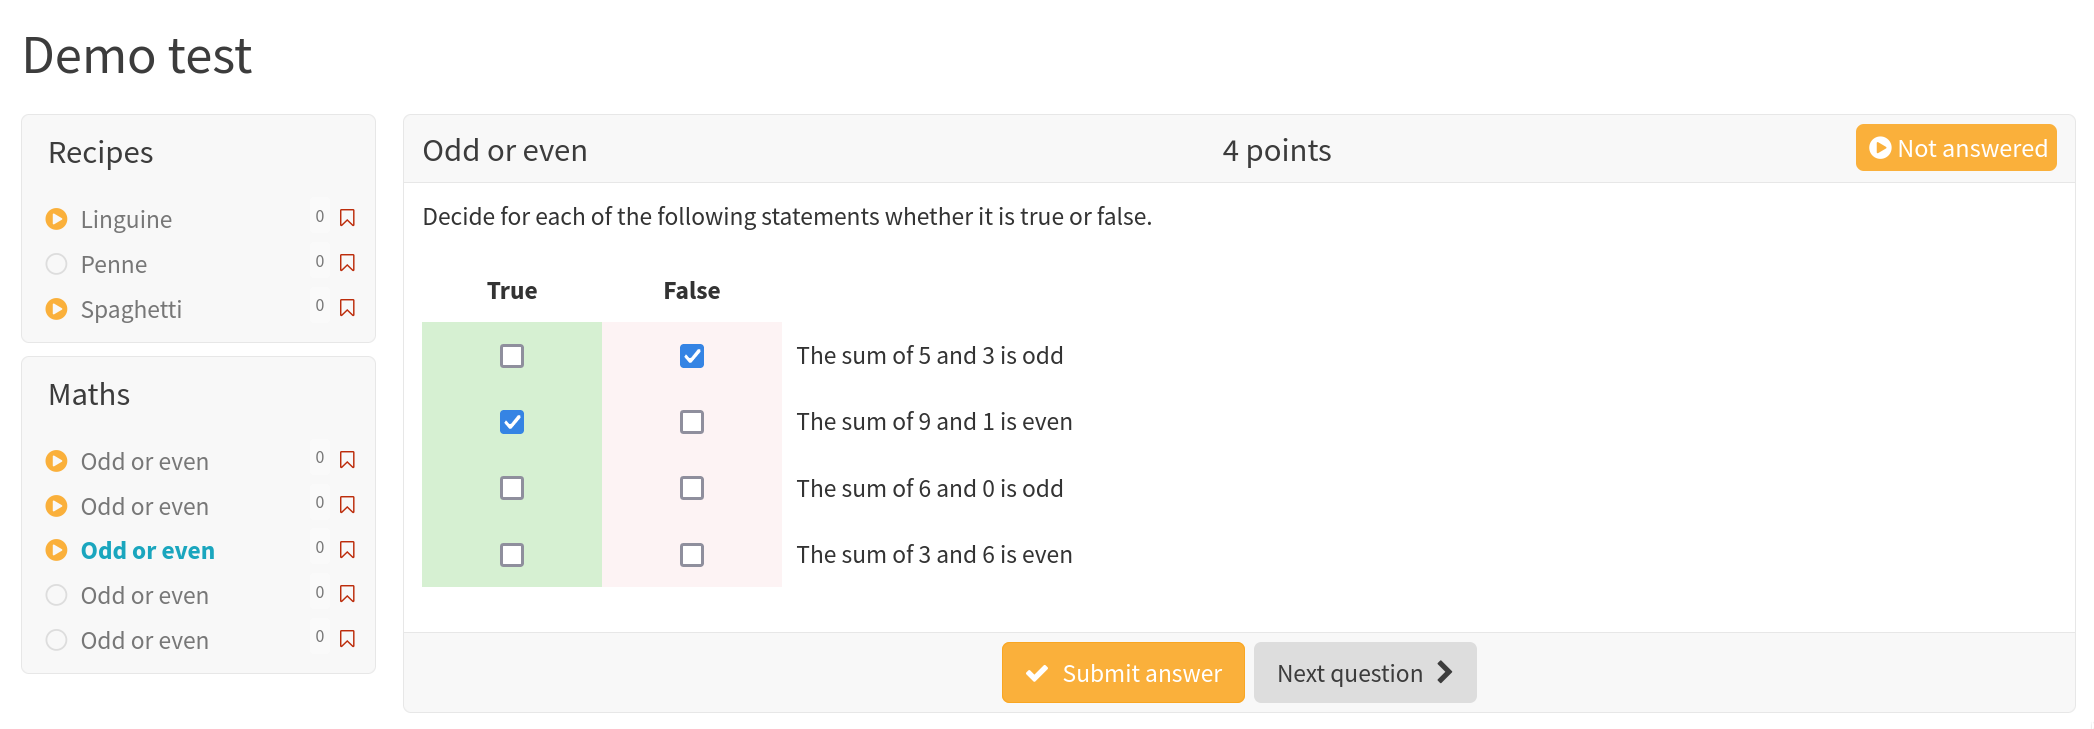
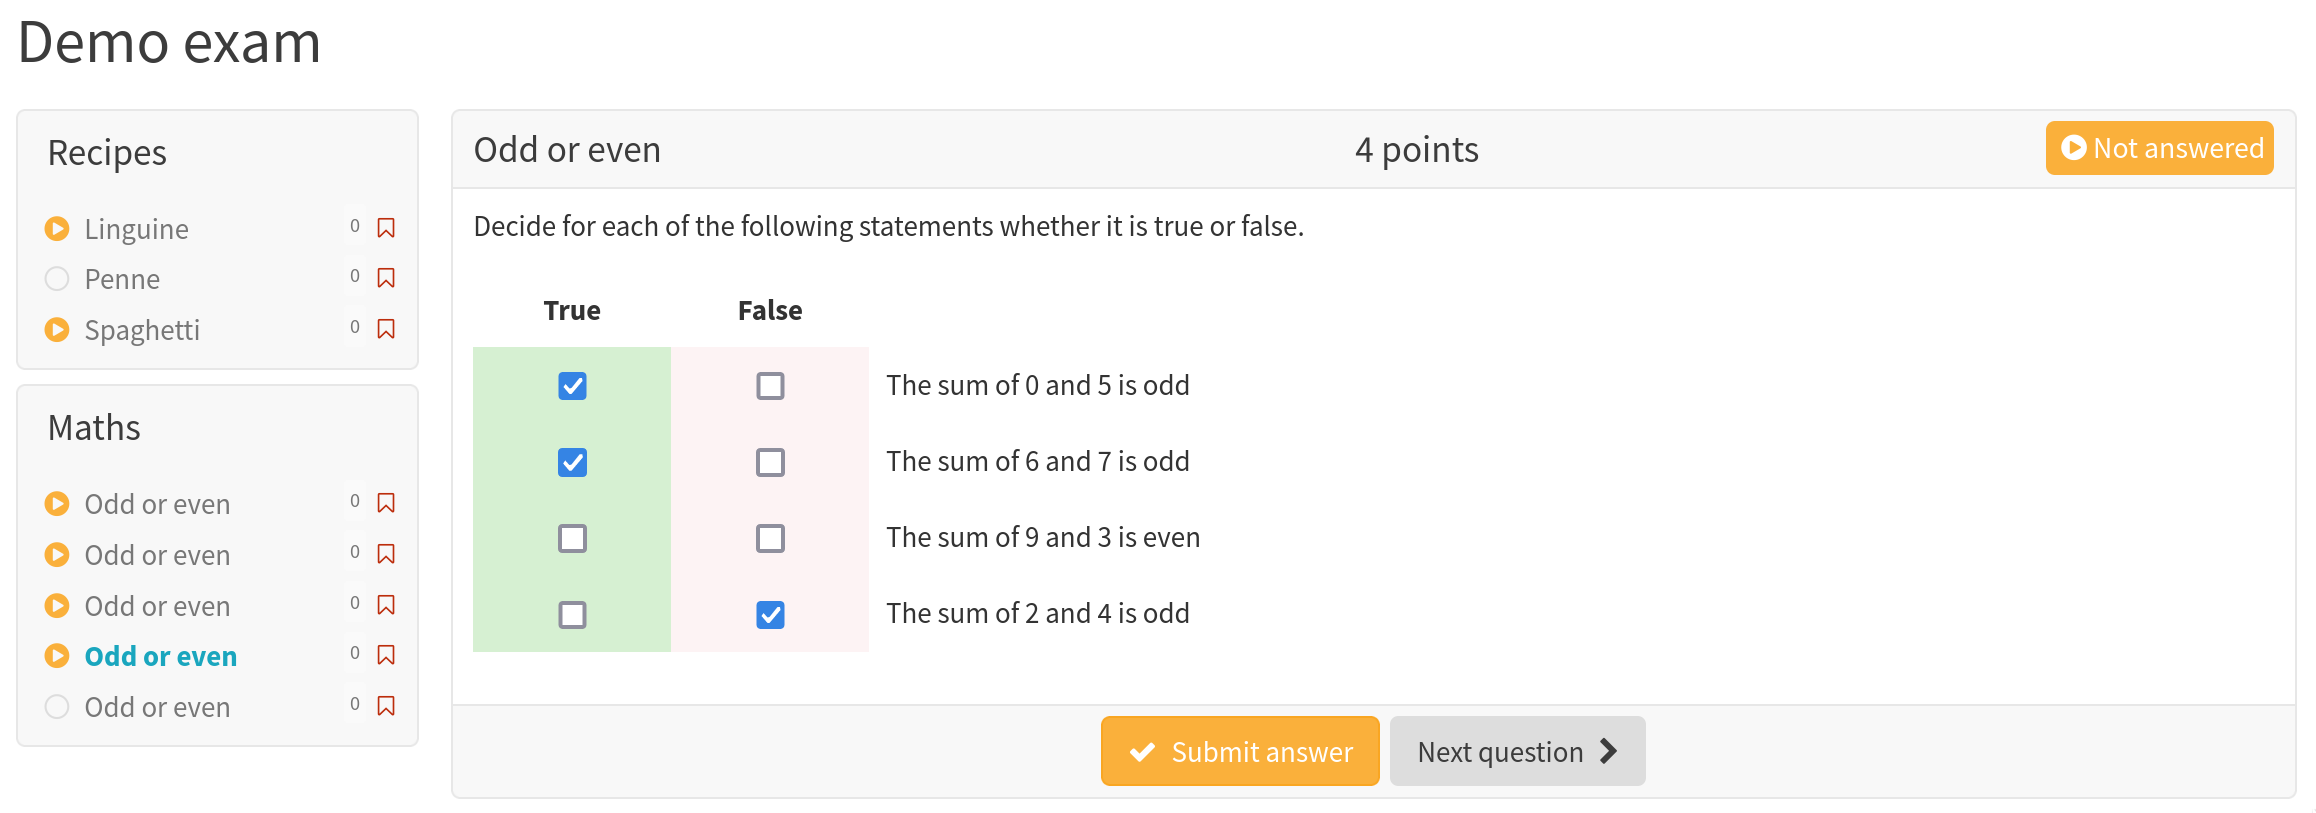
minor updates to README.md and examples

diff --git a/demo/small.py b/demo/small.py
@@ -4,7 +4,16 @@ import random
 from pyqti.qti import Qti
 from pyqti.item import Section, Essay, Kprim
 
-# Section will contain 5 out of all available questions
+# Create a new section
+pasta = Section("Recipes")
+# Generate three essay questions, 10 points each
+for i, p in enumerate(["Spaghetti", "Penne", "Linguine"], 1):
+    item = Essay(10, p,
+           f"""<p>Share your favourite {p.lower()} recipe</p>""",
+           uuid=f"pasta{i:02d}")
+    pasta.add(item)
+
+# This section will contain 5 out of all available questions
 maths = Section("Maths", select=5)
 # Generate 100 Kprim questions
 for i in range(100):
@@ -22,16 +31,8 @@ for i in range(100):
     # Add it to the section
     maths.add(item)
 
-pasta = Section("Recipes")
-# Generate three essay questions, 10 points each
-for i, p in enumerate(["Spaghetti", "Penne", "Linguine"], 1):
-    item = Essay(10, p,
-           f"""<p>Share your favourite {p.lower()} recipe</p>""",
-           uuid=f"pasta{i:02d}")
-    pasta.add(item)
-
 sections = [pasta, maths]
-qti = Qti("Demo test", sections, navigation_mode="nonlinear")
+qti = Qti("Demo exam", sections, navigation_mode="nonlinear")
 zip_path = f"out/my-exam.zip"
 qti.save_as(zip_path)
 

diff --git a/README.md b/README.md
@@ -7,6 +7,12 @@ Pyqti is lazy and does not use any XML library. Instead, XML files are created u
 
 Currently, Pyqti has only been tested with [OpenOLAT 14](https://github.com/OpenOLAT/OpenOLAT).
 
+## Installation
+
+```
+pip install .
+```
+
 ## Usage
 
 The following code...
@@ -18,7 +24,16 @@ import random
 from pyqti.qti import Qti
 from pyqti.item import Section, Essay, Kprim
 
-# Section will contain 5 out of all available questions
+# Create a new section
+pasta = Section("Recipes")
+# Generate three essay questions, 10 points each
+for i, p in enumerate(["Spaghetti", "Penne", "Linguine"], 1):
+    item = Essay(10, p,
+           f"""<p>Share your favourite {p.lower()} recipe</p>""",
+           uuid=f"pasta{i:02d}")
+    pasta.add(item)
+
+# This section will contain 5 out of all available questions
 maths = Section("Maths", select=5)
 # Generate 100 Kprim questions
 for i in range(100):
@@ -36,16 +51,8 @@ for i in range(100):
     # Add it to the section
     maths.add(item)
 
-pasta = Section("Recipes")
-# Generate three essay questions, 10 points each
-for i, p in enumerate(["Spaghetti", "Penne", "Linguine"], 1):
-    item = Essay(10, p,
-           f"""<p>Share your favourite {p.lower()} recipe</p>""",
-           uuid=f"pasta{i:02d}")
-    pasta.add(item)
-
 sections = [pasta, maths]
-qti = Qti("Demo test", sections, navigation_mode="nonlinear")
+qti = Qti("Demo exam", sections, navigation_mode="nonlinear")
 zip_path = f"out/my-exam.zip"
 qti.save_as(zip_path)
 ```
